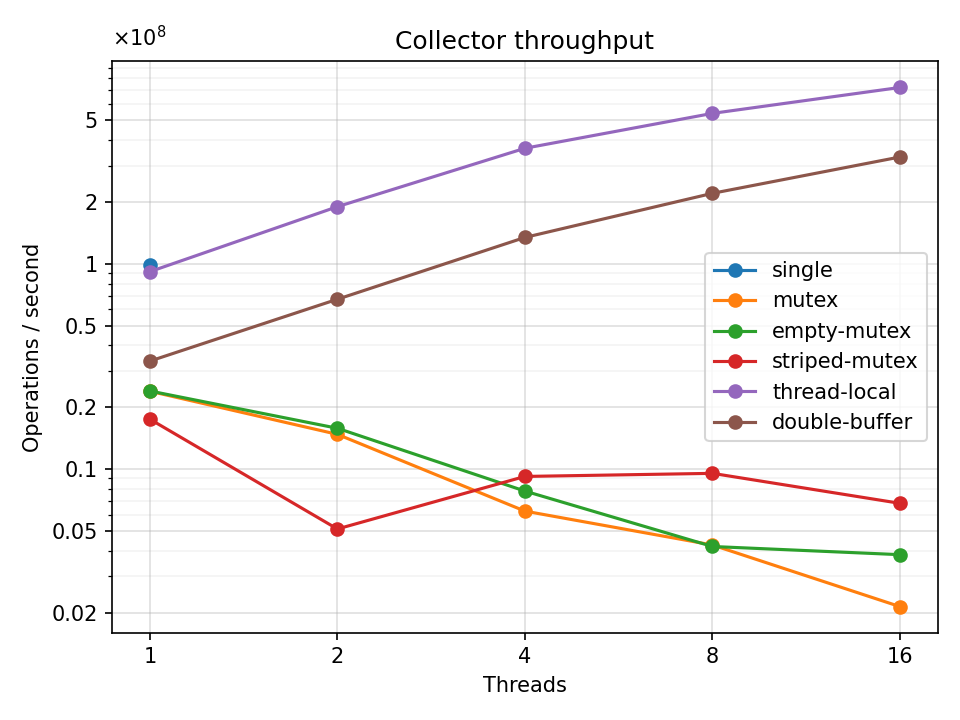
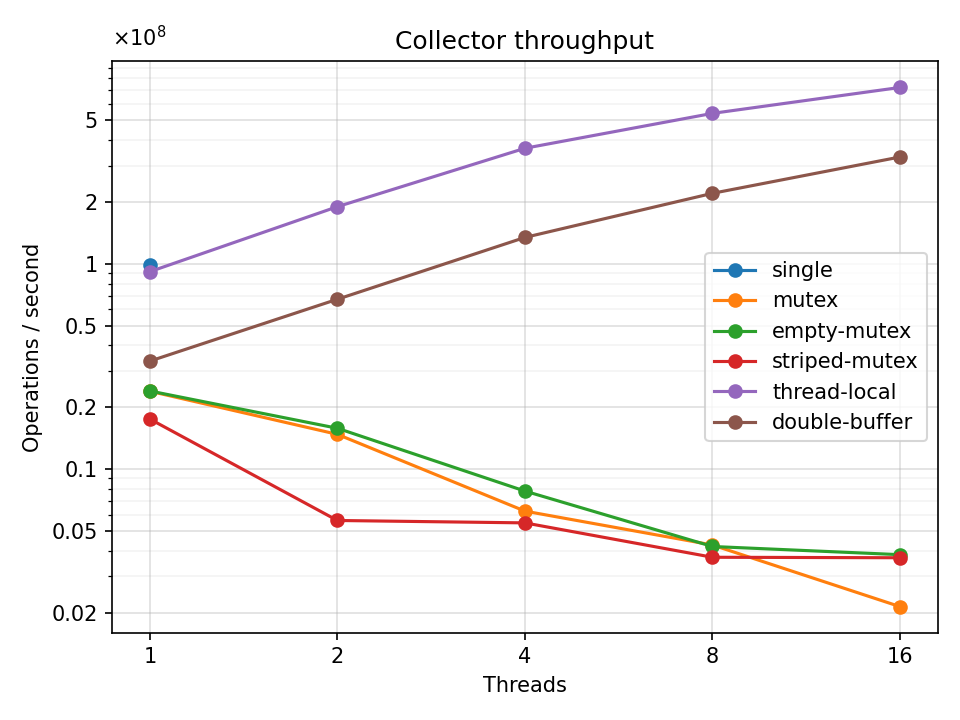
answered questions in README

diff --git a/lab1/src/ru/itmo/parallel/collectors/StripedMutexCollector.java b/lab1/src/ru/itmo/parallel/collectors/StripedMutexCollector.java
@@ -9,7 +9,7 @@ import ru.itmo.parallel.Snapshot;
 public class StripedMutexCollector implements MetricsCollector {
     private static final int BUCKET_GROUPS = 16;
     
-    private final ReentrantLock[] bucketLocks = new ReentrantLock[BUCKET_GROUPS];
+    private final Object[] bucketLocks = new Object[BUCKET_GROUPS];
     private final long[] buckets = new long[Snapshot.BUCKETS_N];
     private final AtomicLong min = new AtomicLong(Long.MAX_VALUE);
     private final AtomicLong max = new AtomicLong(Long.MIN_VALUE);
@@ -25,10 +25,9 @@ public class StripedMutexCollector implements MetricsCollector {
     @Override
     public void record(long value) {
         int bucket = Snapshot.bucket(value);
-        ReentrantLock lock = this.lockForBucket(bucket);
-        lock.lock();
-        this.buckets[bucket] += 1;
-        lock.unlock();
+        synchronized (this.lockForBucket(bucket)) {
+            this.buckets[bucket] += 1;
+        }
 
         this.sum.addAndGet(value);
         this.count.addAndGet(1);
@@ -49,12 +48,12 @@ public class StripedMutexCollector implements MetricsCollector {
     public Snapshot snapshot() {
         long[] bucketsCopy = new long[this.buckets.length];
         for (int i = 0; i < this.bucketLocks.length; i ++) {
-            this.bucketLocks[i].lock();
-            for (int j = i; j < this.buckets.length; j += this.bucketLocks.length) {
-                assert this.lockForBucket(j) == this.bucketLocks[i];
-                bucketsCopy[j] = this.buckets[j];
+            synchronized (this.bucketLocks[i]) {
+                for (int j = i; j < this.buckets.length; j += this.bucketLocks.length) {
+                    assert this.lockForBucket(j) == this.bucketLocks[i];
+                    bucketsCopy[j] = this.buckets[j];
+                }
             }
-            this.bucketLocks[i].unlock();
         }
 
         long count = this.count.get();
@@ -73,7 +72,7 @@ public class StripedMutexCollector implements MetricsCollector {
         );
     }
 
-    private ReentrantLock lockForBucket(int bucketIdx) {
+    private Object lockForBucket(int bucketIdx) {
         return this.bucketLocks[bucketIdx % BUCKET_GROUPS];
     }
 }

diff --git a/lab1/README.md b/lab1/README.md
@@ -629,14 +629,14 @@ record(value):
 #### 2. Замеры пропускной способности (млн оп/сек)
 *Заполните медианные значения замерялки (в миллионах вызовов `record()` в секунду):*
 
-| Число потоков (T)                                     |  **1** |   **2** |   **4** |   **8** |  **16** |
-| :---------------------------------------------------- | -----: | ------: | ------: | ------: | ------: |
-| **Этап 0:** Однопоточный baseline                     |      — |       — |       — |       — |       — |
-| **Этап 1:** Пустой лок (без записи)                   | 24'004 |  15'800 |   7'809 |   4'195 |   3'827 |
-| **Этап 1:** Единый общий лок                          | 23'937 |  14'758 |   6'238 |   4'265 |   2'137 |
-| **Этап 2:** Шардированный лок (16 групп)              | 17'497 |   5'105 |   9'204 |   9'529 |   6'807 |
-| **Этап 3:** Thread-Local состояние (локальные данные) | 91'524 | 189'715 | 365'333 | 540'407 | 722'781 |
-| **Этап 4:** Двойная буферизация                       | 33'563 |  67'171 | 134'385 | 220'401 | 331'314 |
+| Число потоков (T)                                     | **1** |  **2** |  **4** |  **8** | **16** |
+| :---------------------------------------------------- | ----: | -----: | -----: | -----: | -----: |
+| **Этап 0:** Однопоточный baseline                     | 98.78 |      — |      — |      — |      — |
+| **Этап 1:** Пустой лок (без записи)                   | 24.00 |  15.80 |   7.81 |   4.19 |   3.83 |
+| **Этап 1:** Единый общий лок                          | 23.94 |  14.76 |   6.24 |   4.27 |   2.14 |
+| **Этап 2:** Шардированный лок (16 групп)              | 17.52 |   5.62 |   5.47 |   3.72 |   3.70 |
+| **Этап 3:** Thread-Local состояние (локальные данные) | 91.52 | 189.71 | 365.33 | 540.41 | 722.78 |
+| **Этап 4:** Двойная буферизация                       | 33.56 |  67.17 | 134.38 | 220.40 | 331.31 |
 
 ![Сводный график](./benchmark.png)
 
@@ -645,7 +645,7 @@ record(value):
 
 | Реализация                                            | Доля битых снимков (sum != count) | Снимок: sum < count | Снимок: sum > count | Итоговый count − число вызовов (после join) |
 | :---                                                  | :---:                             | :---:               | :---:               | :---:                                       |
-| **Этап 2:** Шардированный лок                         | 83.9%                             | 7882 раз            | 506 раз             | 0                                           |
+| **Этап 2:** Шардированный лок                         | 99.8%                             | 9982 раз            | 1 раз               | 0                                           |
 | **Этап 3:** Thread-Local состояние (локальные данные) | 100%                              | 10'000 раз          | 0 раз               | 0                                           |
 | **Этап 4:** Двойная буферизация                       | 0%                                | 0 раз               | 0 раз               | 0                                           |
 | **Этап 4 (без шага 3):** без проверки `active`        | 89.4%                             | 0 раз               | 8941 раз            | -44                                         |
@@ -654,18 +654,8 @@ record(value):
 
 | Вопрос                                                                                                                                                                                                                                  | Ваш ответ |
 | :---                                                                                                                                                                                                                                    | :--- |
-| **1. Пустой лок против полного:** Почему пустой лок тоже резко падает с ростом потоков? Что добавляет полная версия?                                                                                                                    | TODO |
-| **2. Провал шардирования и атомиков:** Почему 16 шардов и атомарная сводка на этапе 2 не спасли скорость записи на законе Ципфа? Куда переехало узкое место?                                                                            | TODO |
-| **3. Замедление на этапе 3:** Почему на этапе 3 рост скорости замедляется после 8 потоков? Как это связано с выводом `lscpu`?                                                                                                           | TODO |
-| **4. Двойная буферизация против TLS:** Почему этап 4 медленнее этапа 3 (в C++ в 2,5–3,5 раза, в Java в 1,1–1,7 раза, а на 16 потоках Java почти догоняет этап 3), но масштабируется почти линейно? В чём разница инструкций при записи? | TODO |
-| **5. Эксперимент с шагом 3:** Что сломалось в тесте на этапе 4, когда вы убрали повторную проверку `active == b`? Почему итоговый `count` расходится с числом вызовов?                                                                  | TODO |
-
-
-
-
-
-
-
-
-
-
+| **1. Пустой лок против полного:** Почему пустой лок тоже резко падает с ростом потоков? Что добавляет полная версия?                                                                                                                    | От увеличения количества потоков нет выигрыша, так как все вызовы record в итоге становятся "последовательными", соответственно при выполнении нет никакой параллельности. При этом процессору все еще нужно тратить время на переключение контекста/пробуждение потока/конкуренцию за мьютекс. Полная версия добавляет, арифметические операции и подгрузку общих данных (buckets, sum, count, ...) за которые потоки также конкурируют. |
+| **2. Провал шардирования и атомиков:** Почему 16 шардов и атомарная сводка на этапе 2 не спасли скорость записи на законе Ципфа? Куда переехало узкое место?                                                                            | Потому что все еще есть большая конкуренция за один и тот же лок, так как распределение ципфа подразумевает большую концентрацию на нулевом значении. Конкуренция за общие данные с атомиками также все еще осталась, куда соответственно и переехало узкое место. |
+| **3. Замедление на этапе 3:** Почему на этапе 3 рост скорости замедляется после 8 потоков? Как это связано с выводом `lscpu`?                                                                                                           | Не все ядра процессора одинаковые. Производительные P-core ядра используются для высоконагруженных задач, тогда как энергоэффективные E-core ядра менее производительные. После заполнения потоками 8 ядер планировщих начинает использовать для новых потоков более "медленные" E-core ядра. Конкретно на моей машине нет явной маркировки разделения, но среди ядер есть отличия которые могут влиять на эффективность: 8 ядер имеют `MAXMHZ=1700`, а другие 8 `MAXMHZ=1200`. |
+| **4. Двойная буферизация против TLS:** Почему этап 4 медленнее этапа 3 (в C++ в 2,5–3,5 раза, в Java в 1,1–1,7 раза, а на 16 потоках Java почти догоняет этап 3), но масштабируется почти линейно? В чём разница инструкций при записи? | Double buffering добавляет операцию "синхронизации" активного буфера при каждом record с `seq_cst` атомическими операциями, что тратит определенное время, однако остальная часть record все также работает с локальным состоянием без конкуренции с остальными потоками, поэтому это решение хорошо масштабируется. |
+| **5. Эксперимент с шагом 3:** Что сломалось в тесте на этапе 4, когда вы убрали повторную проверку `active == b`? Почему итоговый `count` расходится с числом вызовов?                                                                  | При отсутствии проверки читатель (snapshot) мог переключить active буффер во время работы record, из-за чего record писал в буффер из которого одновременно читал снапшот. К тому же эти данные могли "потеряться" при сборе глобальной сводки. То есть ошибки вызваны гонкой данных. |
